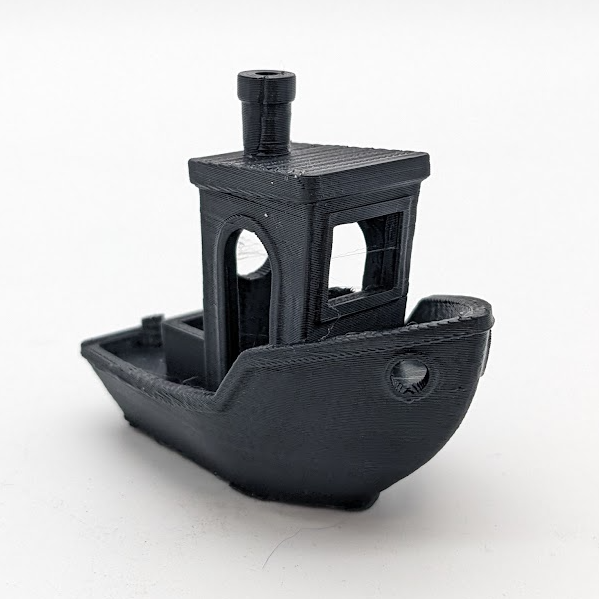
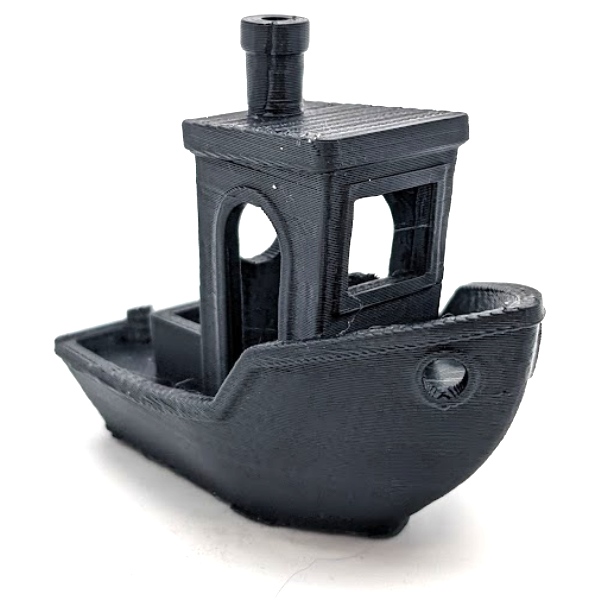
Changed Hero Image and added a conclusion

diff --git a/_tutorials/3d-print/imprimer-une-piece.md b/_tutorials/3d-print/imprimer-une-piece.md
@@ -1,9 +1,9 @@
 ---
 
 layout: tutorial  
-image: Benchy.png  
+image: Benchy+Logo.png  
 hide_hero: true  
-hero_image: Benchy.png  
+hero_image: Benchy+Logo.png  
 hero_darken: true  
 component_toc: true  
 background_color: '#f7f4ed'
@@ -22,7 +22,7 @@ softwares:
   - label: OrcaSlicer  
     link: ""
 
-todo: 80  
+todo: 100  
 ---
 
 # Impression 3D d'une pièce
@@ -175,9 +175,9 @@ title="5 - Impression"
 image = "One_Eternity_Later.gif"  
 content="Il faut maintenant laisser **l'imprimante faire son travail** !
 
-Pour de longues impression, il est important de vérifier régulièrement que tout se passe bien.
+Pour les longues impressions, il est important de vérifier régulièrement que tout se passe bien.
 
-Si la **pièce se décolle** avant de terminer ou qu'un **autre problème** survient, vous devrez **stopper l'impression** depuis le **panneau de contrôle** du serveur :
+Si la **pièce se décolle** avant la fin ou qu'un **autre problème** survient, vous devrez **arrêter l'impression** depuis le **panneau de contrôle** du serveur :
 
 ![Stopper impression](Stop_Print.gif)
 "
@@ -185,36 +185,32 @@ Si la **pièce se décolle** avant de terminer ou qu'un **autre problème** surv
 
 {% include step-tuto.html  
 greyBackground = true  
-title="6 - Post processing"  
+title="6 - Post-traitement"  
 image = "Remove_Part.gif"  
 content="Après un peu de patience, voici votre **impression terminée** ! 
 
 Pour **retirer la pièce du plateau**, pas besoin de forcer ! Il suffit d'attendre que le plateau refroidisse.
 
-Après quelques minutes, soulevez et courbez légerement le plateau, **sans le retirer** :
+Après quelques minutes, soulevez et courbez légèrement le plateau, **sans le retirer**.
 
-Si la pièce ne se décroche pas, **attendez quelques minutes** que le plateau refroidisse davantage.
-
-
-"
+Si la pièce ne se décroche pas, **attendez quelques minutes** que le plateau refroidisse davantage."
 %}
 
 {% include step-tuto.html  
 greyBackground = true  
 image = "Remove_Brim_And_Trash.gif"  
-content=" Retirez **bordures** et **dépôts** de filament sur le plateau, si vous avez activé l'option, **retirez également les supports**.
+content="Retirez les **bordures** et **dépôts** de filament sur le plateau. Si vous avez activé l'option, **retirez également les supports**.
 
 Jetez vos déchets dans la poubelle située à l'entrée du **PrinterLab**.
 
-Assurez-vous de laisser votre espace de travail propre et prêt pour les prochains !
-
-"
+Assurez-vous de laisser votre espace de travail **propre** et **prêt** pour les prochains !"
 %}
 
 {% include step-tuto.html  
 greyBackground = true  
 image = "Benchy.png"  
-content=" Bravo ! Vous savez maintenant imprimer un pièce au **PrinterLab**
+content="Bravo ! Vous savez maintenant imprimer une pièce au **PrinterLab**.
 
+Pour que ce lieu reste **ouvert à toutes et tous**, c'est maintenant à vous de **partager ce que vous avez** appris dans ce tuto !
 "
 %}
